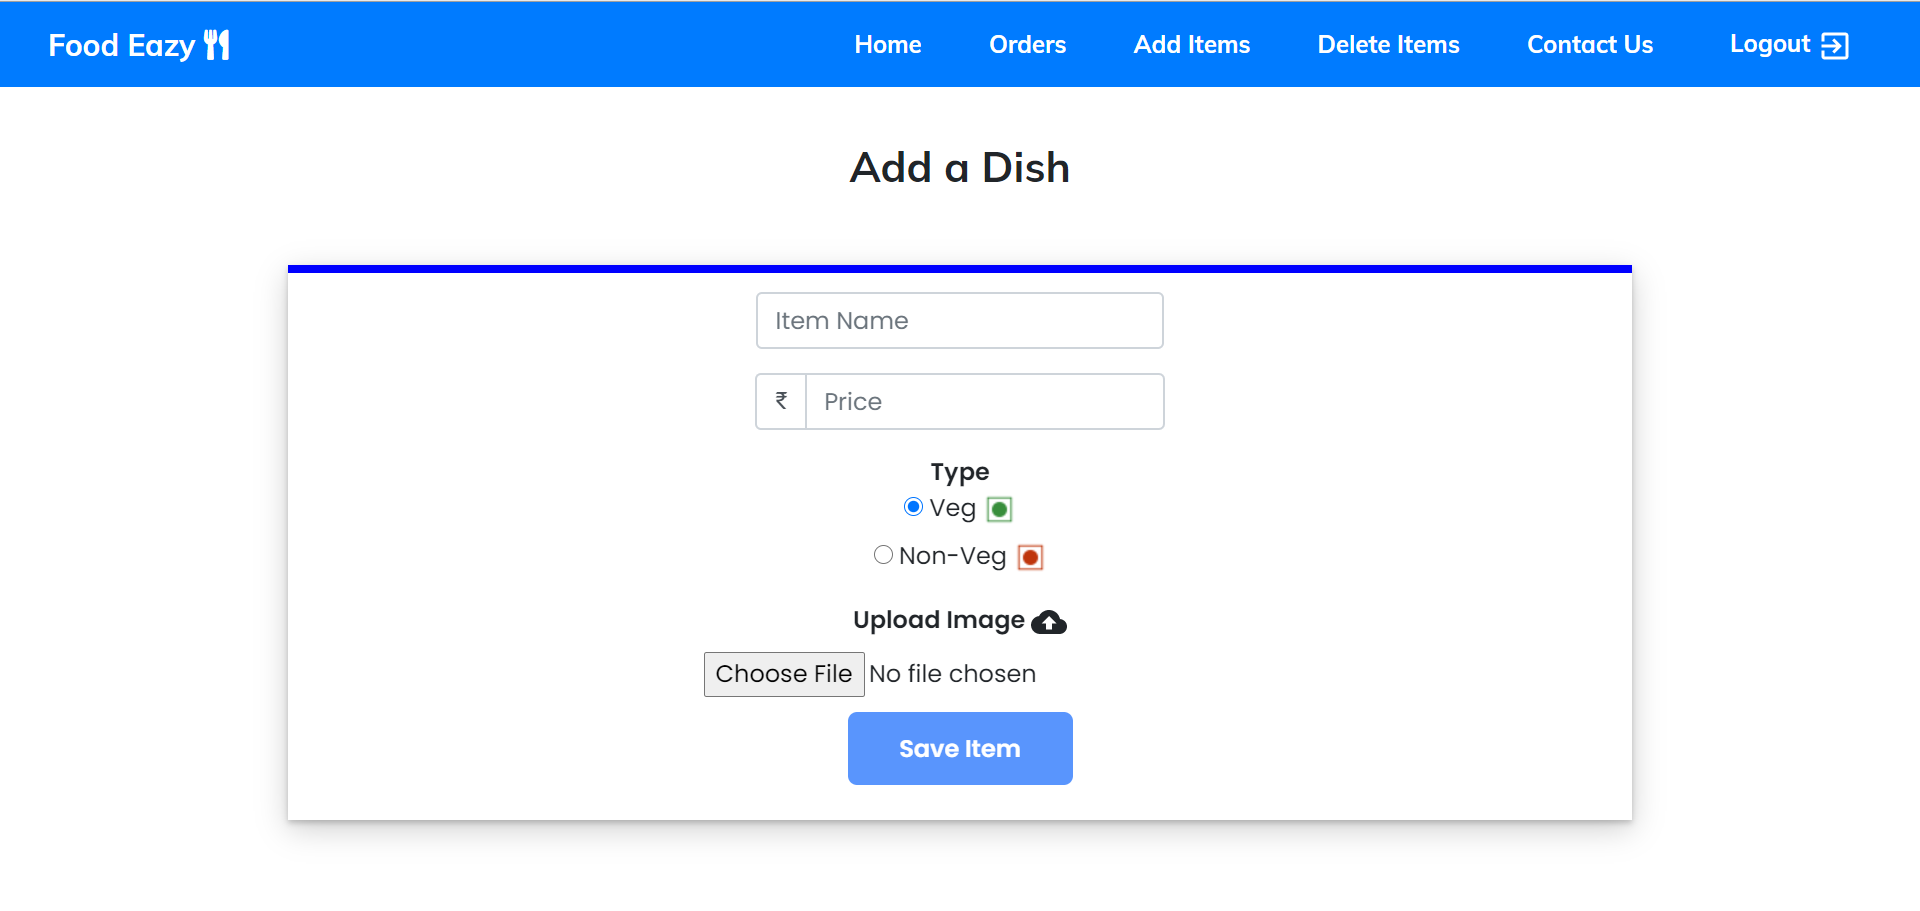
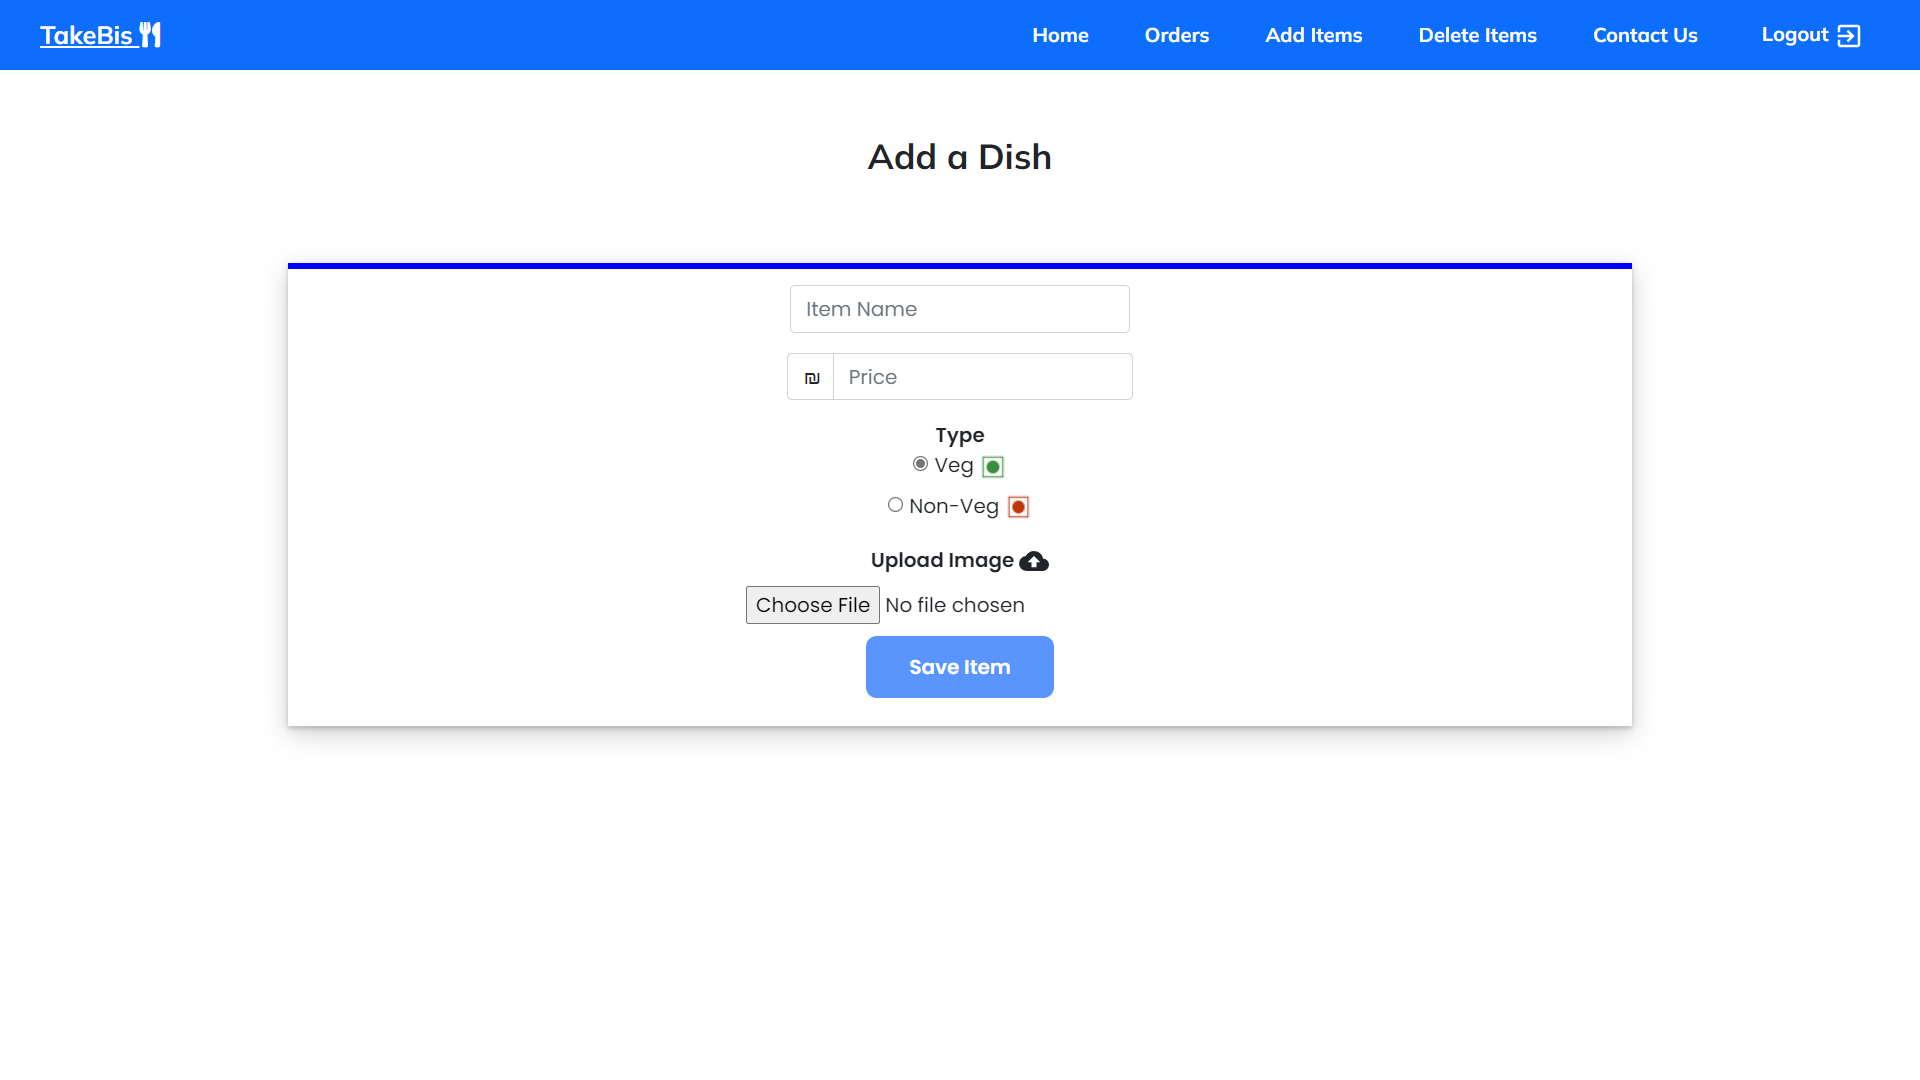
admin settings

diff --git a/controllers/mail.js b/controllers/mail.js
@@ -27,7 +27,7 @@ const sendWelcomeEmail = (email, name, emailToken) => {
           <table role="presentation" style="width:602px;border-collapse:collapse;border:1px solid #cccccc;border-spacing:0;text-align:left;">
             <tr>
               <td align="center" style="padding:40px 0 30px 0;background:#007BFF;">
-                <img src="https://assets.codepen.io/210284/h1.png" alt="" width="300" style="height:auto;display:block;" />
+                <img src="https://i.postimg.cc/vZw4cVx8/logo-removebg-preview.png" alt="" width="300" style="height:auto;display:block;" />
               </td>
             </tr>
             <tr>
@@ -88,11 +88,70 @@ const sendOrderEmail = (email, name, order) => {
     subject: 'Order Confirmation',
     text: `That was easy!`,
     html:
-      'Hi, <strong>' +
-      name +
-      '</strong><h2>Order Successfully Placed!</h2><h3><p>Thank you for ordering from TakeBis</h3> Your order id: ' +
-      order.order_id +
-      "</p><p style='text-align: left;'>Regards, <h1>TakeBis</h1></>",
+      // 'Hi, <strong>' +
+      // name +
+      // '</strong><h2>Order Successfully Placed!</h2><h3><p>Thank you for ordering from TakeBis</h3> Your order id: ' +
+      // order.order_id +
+      // "</p><p style='text-align: left;'>Regards, <h1>TakeBis</h1></>",
+      ` <table role="presentation" style="width:100%;border-collapse:collapse;border:0;border-spacing:0;background:#ffffff;">
+      <tr>
+        <td align="center" style="padding:0;">
+          <table role="presentation" style="width:602px;border-collapse:collapse;border:1px solid #cccccc;border-spacing:0;text-align:left;">
+            <tr>
+              <td align="center" style="padding:40px 0 30px 0;background:#007BFF;">
+                <img src="https://i.postimg.cc/vZw4cVx8/logo-removebg-preview.png" alt="" width="300" style="height:auto;display:block;" />
+              </td>
+            </tr>
+            <tr>
+              <td style="padding:36px 30px 42px 30px;">
+                <table role="presentation" style="width:100%;border-collapse:collapse;border:0;border-spacing:0;">
+                  <tr>
+                    <td style="padding:0 0 36px 0;color:#153643;">
+                      <h1 style="font-size:24px;margin:0 0 20px 0;font-family:Arial,sans-serif;">${name}, Your Order Successfully Placed</h1>
+                      <h4 style="font-size:24px;margin:0 0 20px 0;font-family:Arial,sans-serif;">Thank you for ordering from TakeBis</h4>                      
+                      <p style="margin:0 0 12px 0;font-size:16px;line-height:24px;font-family:Arial,sans-serif;">
+                      Your order id: ${order.order_id}
+                      <br>
+                      Number of meals: ${order.order.total_quantity}
+                      <br>
+                      Total cost: ${order.order.total_price}
+                      <br>
+                      Regards, TakeBis.</p>
+                    </td>
+                  </tr>
+                 
+                </table>
+              </td>
+            </tr>
+            <tr>
+              <td style="padding:30px;background:#007BFF;">
+                <table role="presentation" style="width:100%;border-collapse:collapse;border:0;border-spacing:0;font-size:9px;font-family:Arial,sans-serif;">
+                  <tr>
+                    <td style="padding:0;width:50%;" align="left">
+                      <p style="margin:0;font-size:14px;line-height:16px;font-family:Arial,sans-serif;color:#ffffff;">
+                        &reg; Someone, Somewhere 2021<br/><a href="http://www.example.com" style="color:#ffffff;text-decoration:underline;">Unsubscribe</a>
+                      </p>
+                    </td>
+                    <td style="padding:0;width:50%;" align="right">
+                      <table role="presentation" style="border-collapse:collapse;border:0;border-spacing:0;">
+                        <tr>
+                          <td style="padding:0 0 0 10px;width:38px;">
+                            <a href="http://www.twitter.com/" style="color:#ffffff;"><img src="https://assets.codepen.io/210284/tw_1.png" alt="Twitter" width="38" style="height:auto;display:block;border:0;" /></a>
+                          </td>
+                          <td style="padding:0 0 0 10px;width:38px;">
+                            <a href="http://www.facebook.com/" style="color:#ffffff;"><img src="https://assets.codepen.io/210284/fb_1.png" alt="Facebook" width="38" style="height:auto;display:block;border:0;" /></a>
+                          </td>
+                        </tr>
+                      </table>
+                    </td>
+                  </tr>
+                </table>
+              </td>
+            </tr>
+          </table>
+        </td>
+      </tr>
+    </table>`,
   });
 };
 

diff --git a/client/src/components/order.js b/client/src/components/order.js
@@ -2,6 +2,7 @@ import React, { useEffect, useState, useContext } from 'react';
 import baseURL from '../api/Api';
 import AuthContext from '../context/auth/authContext';
 import LoadingContext from '../context/loading/loadingContext';
+import { Button } from 'react-bootstrap';
 
 const Order = () => {
   const userInfo = useContext(AuthContext);
@@ -37,7 +38,31 @@ const Order = () => {
   useEffect(() => {
     console.log(component);
     // console.log(name);
-  }, [component]);
+  }, [component, user, active, past]);
+
+  const changeOrderStatus = async (order_id, status, index) => {
+    const res = await baseURL.put(`/orders/${order_id}`, {
+      status: status,
+    });
+    let pastOrders = past;
+    let currentOrders = active;
+    let order = null;
+    if (status === 'true') {
+      order = currentOrders[index];
+      order['status'] = status;
+      pastOrders.push(order);
+      currentOrders.splice(index, 1);
+    } else {
+      order = pastOrders[index];
+      order['status'] = status;
+      currentOrders.push(order);
+      pastOrders.splice(index, 1);
+    }
+    setActive(currentOrders);
+    setPast(pastOrders);
+    console.log(active);
+    console.log(past);
+  };
   const Component = () => {
     return (
       <div className="mainComponent" style={{ overflow: 'visible' }}>
@@ -143,7 +168,24 @@ const Order = () => {
                 <div className="pastOrdersInfo">
                   Total Items: {item.order.total_quantity}
                 </div>
-                <h5>Delievered On {new Date(item.time).toDateString()}</h5>
+                <div>
+                  <h5>Delievered On {new Date(item.time).toDateString()}</h5>
+                  {user.role === 'admin' && (
+                    <Button
+                      onClick={() =>
+                        changeOrderStatus(item.order_id, 'true', idx)
+                      }
+                      type="submit"
+                      color="blue"
+                      style={{ width: '100%' }}
+                    >
+                      {/* <Link to="/order">ORDER</Link> */}
+                      <span style={{ fontFamily: 'Mulish' }}>
+                        Change Status
+                      </span>
+                    </Button>
+                  )}
+                </div>
               </div>
             ))
           )}
@@ -189,6 +231,19 @@ const Order = () => {
                   Total Items: {item.order.total_quantity}
                 </div>
                 <h5>Delievered On {new Date(item.time).toDateString()}</h5>
+                {user.role === 'admin' && (
+                  <Button
+                    onClick={() =>
+                      changeOrderStatus(item.order_id, 'false', idx)
+                    }
+                    type="submit"
+                    color="blue"
+                    style={{ width: '100%' }}
+                  >
+                    {/* <Link to="/order">ORDER</Link> */}
+                    <span style={{ fontFamily: 'Mulish' }}>Change Status</span>
+                  </Button>
+                )}
               </div>
             ))
           )}

diff --git a/routes/orders.js b/routes/orders.js
@@ -1,20 +1,28 @@
-const express = require("express");
+const express = require('express');
 const router = express.Router();
 const Orders = require('../models/orders');
-const auth = require("../middleware/auth")
-
+const auth = require('../middleware/auth');
+const User = require('../models/register');
 
 router.get('/', auth, async (req, res) => {
-	let user_id = req.user.id;
-	let orders = await Orders.find({
-		user: user_id
-	});
-	if (!orders)
-		res.status(200).json('No Orders Placed!');
-	else {
-		res.status(200).json(orders);
-	}
+  console.log(req.user.id);
+  let user = await User.findById(req.user.id);
+  if (user.role === 'admin') {
+    let orders = await Orders.find();
+    if (!orders) res.status(200).json('No Orders Placed!');
+    else {
+      res.status(200).json(orders);
+    }
+  } else {
+    let user_id = req.user.id;
+    let orders = await Orders.find({
+      user: user_id,
+    });
+    if (!orders) res.status(200).json('No Orders Placed!');
+    else {
+      res.status(200).json(orders);
+    }
+  }
+});
 
-})
-
-module.exports = router
+module.exports = router;

diff --git a/client/src/components/auth.js b/client/src/components/auth.js
@@ -121,10 +121,7 @@ const Auth = (props) => {
             zIndex: '23444898429',
           }}
         >
-          <img
-            src={require('https://takebis.herokuapp.com/images/Spinner.gif')}
-            alt="loader"
-          />
+          <img src={require('../images/Spinner.gif')} alt="loader" />
         </div>
       ) : (
         <div className={flag === 0 ? 'container1' : 'container1 sign-up-mode'}>
@@ -241,7 +238,7 @@ const Auth = (props) => {
                 </button>
               </div>
               <img
-                src={require('https://takebis.herokuapp.com/images/register.svg')}
+                src={require('../images/register.svg')}
                 className="image"
                 alt=""
               />
@@ -262,7 +259,7 @@ const Auth = (props) => {
                 </button>
               </div>
               <img
-                src={require('https://takebis.herokuapp.com/images/logo.svg')}
+                src={require('../images/logo.svg')}
                 className="image"
                 alt=""
               />

diff --git a/client/public/index.html b/client/public/index.html
@@ -19,7 +19,7 @@
 <link href="https://fonts.googleapis.com/css2?family=Archivo&display=swap" rel="stylesheet"/>
 <link href="https://fonts.googleapis.com/css2?family=Alata&display=swap" rel="stylesheet"/>
 <link rel="stylesheet" href="https://use.typekit.net/urw5jff.css"/>
-<link rel="icon" type="image/png" href="/android-chrome-512x512.png"/>
+<link rel="icon" type="image/png" href="/logo.PNG"/>
 <link href="https://fonts.googleapis.com/css2?family=Alata&display=swap" rel="stylesheet"/>
 <link href="https://fonts.googleapis.com/css2?family=Alata&family=Red+Rose&display=swap" rel="stylesheet"/>
 <link href="https://fonts.googleapis.com/css2?family=Alata&family=Kanit:wght@400&family=Red+Rose&display=swap" rel="stylesheet"/>

diff --git a/routes/order.js b/routes/order.js
@@ -138,5 +138,22 @@ router.get('/', async (req, res) => {
     res.sendStatus(404);
   }
 });
+router.put('/:order_id', async (req, res) => {
+  let orderId = req.params.order_id;
+  console.log(orderId);
+  try {
+    let current = await Order.findOneAndUpdate(
+      {
+        order_id: orderId,
+      },
+      { status: req.body.status }
+    );
+    console.log(current, req.body.status);
+    res.send(current);
+  } catch (e) {
+    console.log(e);
+    res.sendStatus(404);
+  }
+});
 
 module.exports = router;

diff --git a/client/src/components/checkout.js b/client/src/components/checkout.js
@@ -49,7 +49,7 @@ const Checkout = (props) => {
   const history = useHistory();
   console.log(props);
 
-  const { state } = useContext(CartContext);
+  const { state, clearCart } = useContext(CartContext);
   console.log(state);
   const [alert, setAlert] = useState({
     val: 0,
@@ -78,6 +78,7 @@ const Checkout = (props) => {
       address: address,
     };
     const res = await baseURL.post('/orders', order);
+    clearCart();
     history.push('/order');
   };
   const Alerts = () => {

diff --git a/client/src/components/Cart.js b/client/src/components/Cart.js
@@ -49,6 +49,7 @@ const Cart = () => {
     state,
     clearCart,
   } = useContext(CartContext);
+
   // console.log(items);
   //  useEffect(() => {
   // loadCart();

diff --git a/Readme.md b/Readme.md
@@ -6,7 +6,7 @@ TakeBis, is an online platform to order food and avoiding the hassle of going ou
 
 <!-- In the times of COVID-19 where social distancing is such an important measure we think our website can help restaurants and customers. -->
 
-**Project Link** - ***https://takefood.herokuapp.com/***
+**Project Link** - ***https://takebis.herokuapp.com/***
 <br />
 
 ## Features and Functionalities 😃
@@ -58,7 +58,7 @@ TakeBis, is an online platform to order food and avoiding the hassle of going ou
 
 ### Add Dish (Admin)
 
-<!-- ![enter image description here](https://raw.githubusercontent.com/mihir0699/FoodEazy/master/readme_images/add_dish.png?token=ALT5AMHASSDL3WCV2BVKP4DBL22JW) -->
+![enter image description here](https://raw.githubusercontent.com/yonin7/TakeFood-Project/master/readme_images/add_dish.png)
 
 ### Delete Dish (Admin)
 
